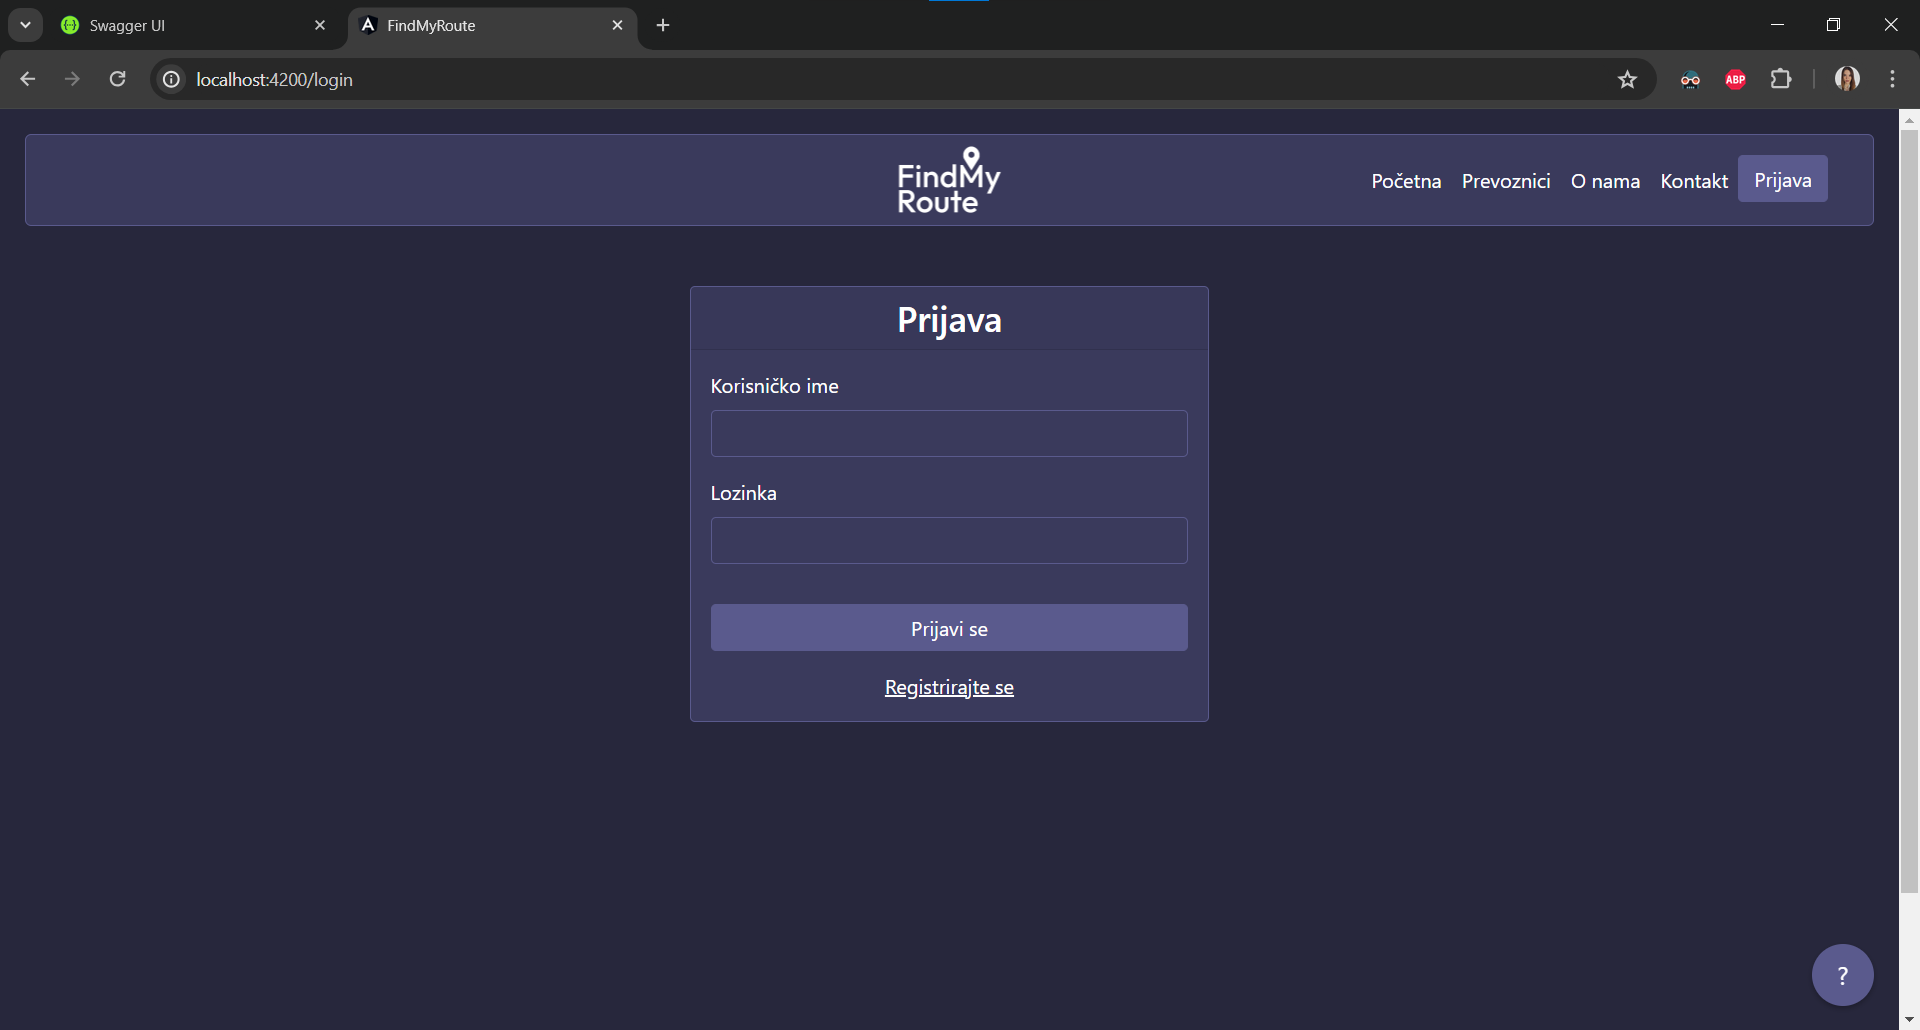
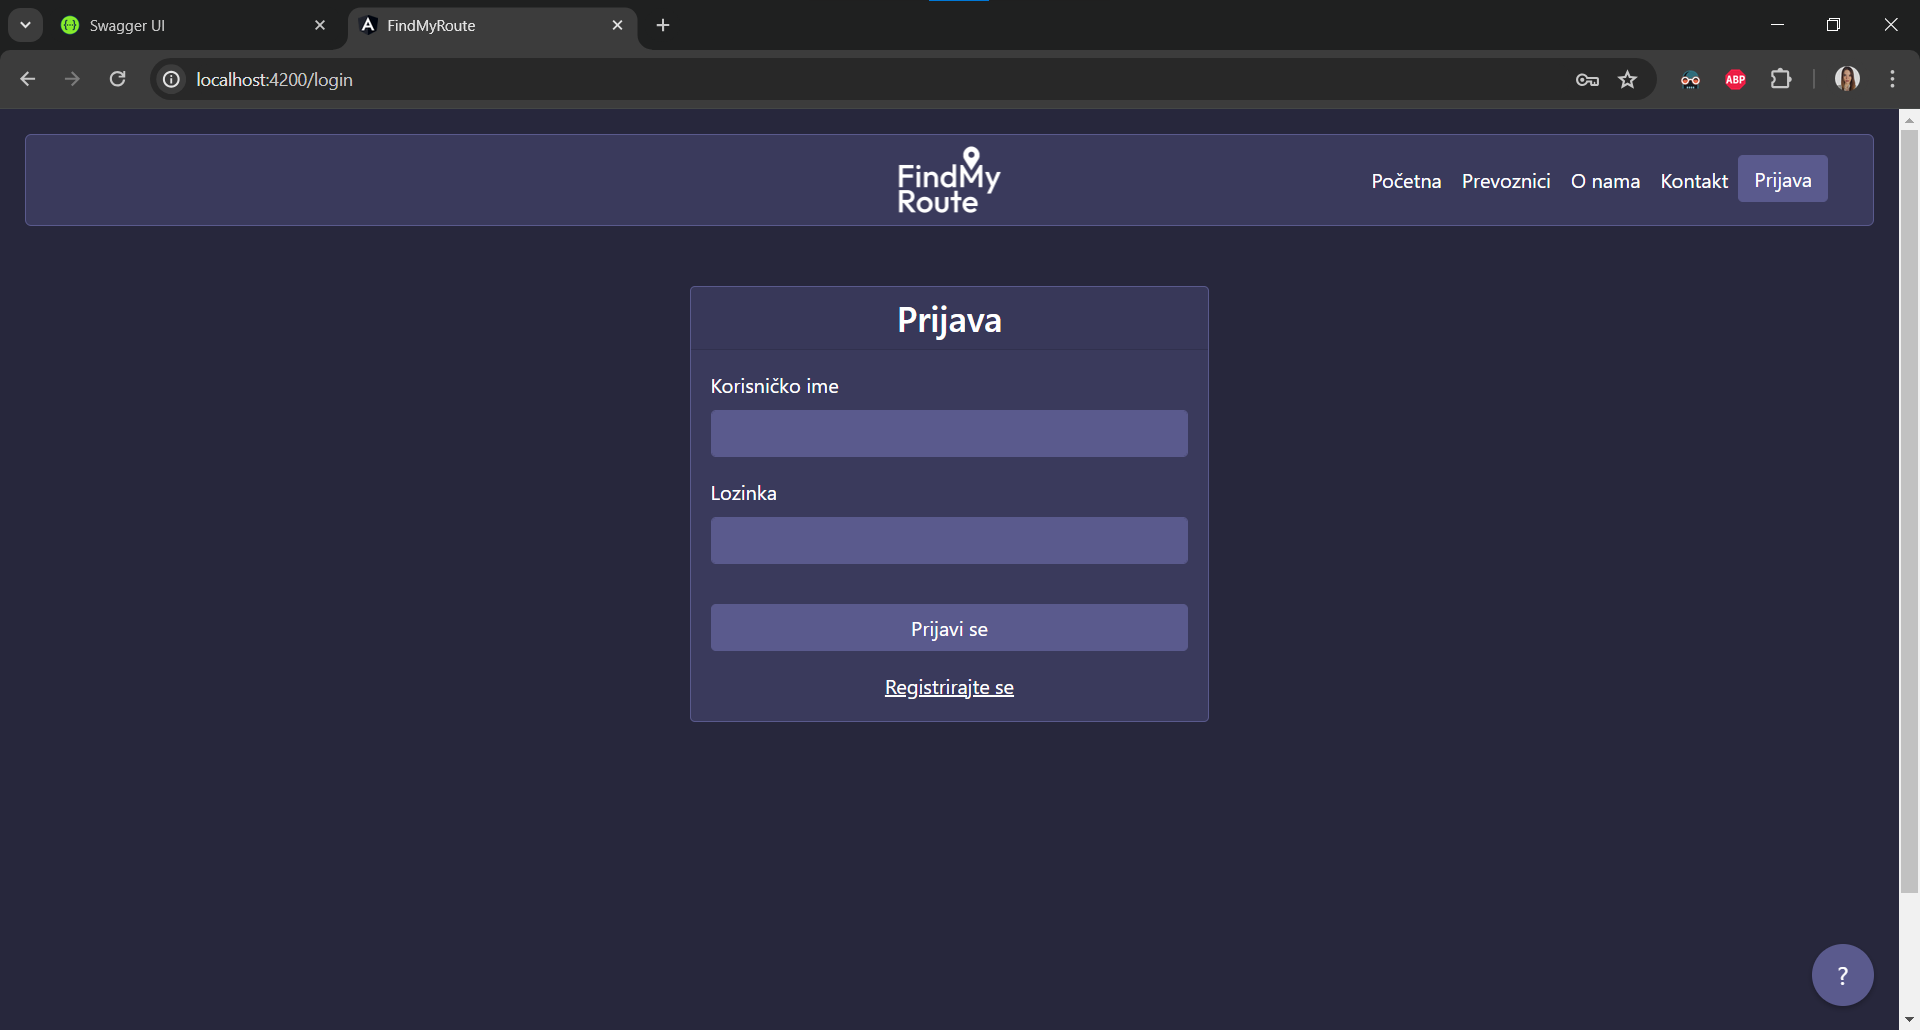
minor changes

Changed region(s): [[0.3438, 0.3728, 0.625, 0.466], [0.3438, 0.4971, 0.625, 0.5592]]

diff --git a/angular_app/src/app/upravljanjeKreditna/upravljanjeKreditna.component.css b/angular_app/src/app/upravljanjeKreditna/upravljanjeKreditna.component.css
@@ -44,13 +44,13 @@ body {
 }
 
 input {
-  background-color: #3a3a5c;
+  background-color: #5a5a8d;
   color: #fff;
   border: 1px solid #5a5a8d;
 }
 
 .form-control {
-  background-color: #3a3a5c;
+  background-color: #5a5a8d;
   color: #fff;
   border: 1px solid #5a5a8d;
 }
@@ -66,7 +66,7 @@ input {
 }
 
 select.form-control {
-  background-color: #3a3a5c;
+  background-color: #5a5a8d;
   color: #fff;
   border: 1px solid #5a5a8d;
 }

diff --git a/angular_app/src/app/upravljanje/upravljanje.component.css b/angular_app/src/app/upravljanje/upravljanje.component.css
@@ -11,7 +11,7 @@
 }
 
 input {
-  background-color: #3a3a5c;
+  background-color: #5a5a8d;
   color: #fff;
   border: 1px solid #5a5a8d;
 }
@@ -105,8 +105,13 @@ select option:hover {
   color: #fff;
 }
 
-#txtPrevoznik, #slika-input {
+#slika-input {
   background-color: #3a3a5c;
+  border: 1px solid #5a5a8d;
+}
+
+#txtPrevoznik {
+  background-color: #5a5a8d;
   border: 1px solid #5a5a8d;
 }
 

diff --git a/angular_app/src/app/login/login.component.css b/angular_app/src/app/login/login.component.css
@@ -19,7 +19,7 @@ body {
 
 .form-control {
   width: 100%;
-  background-color: #3a3a5c;
+  background-color: #5a5a8d;
   color: #fff;
   border: 1px solid #5a5a8d;
 }

diff --git a/angular_app/src/app/registracija/registracija.component.css b/angular_app/src/app/registracija/registracija.component.css
@@ -5,7 +5,7 @@
 }
 
 input {
-  background-color: #3a3a5c;
+  background-color: #5a5a8d;
   color: #fff;
   border: 1px solid #5a5a8d;
 }
